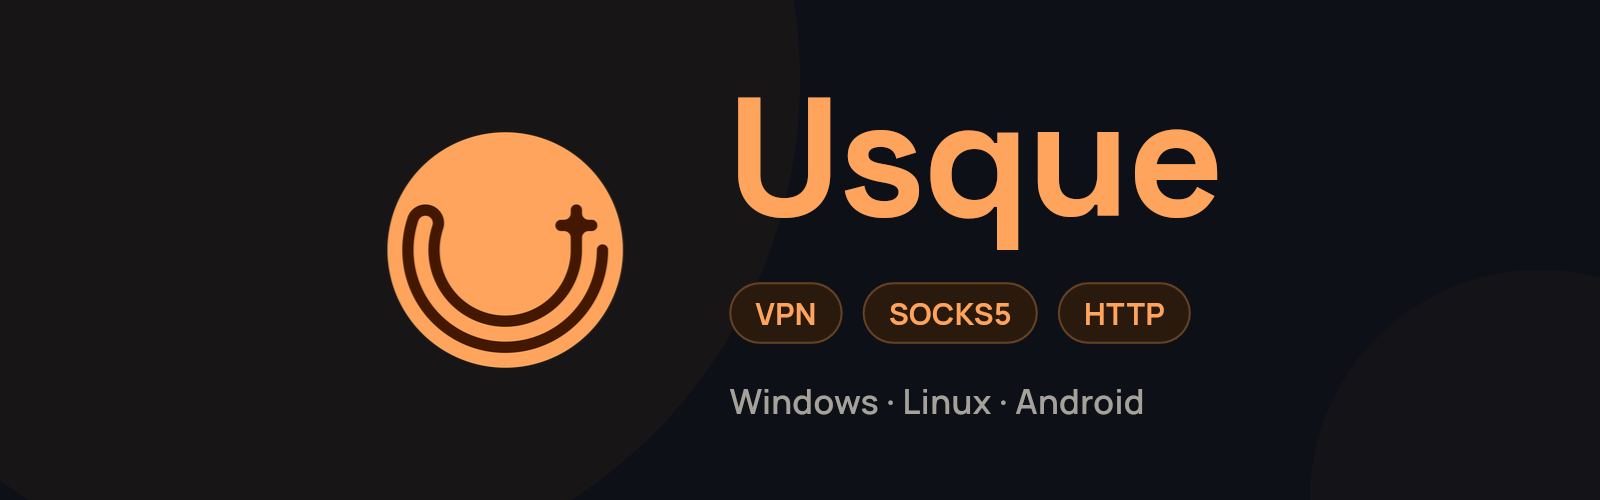
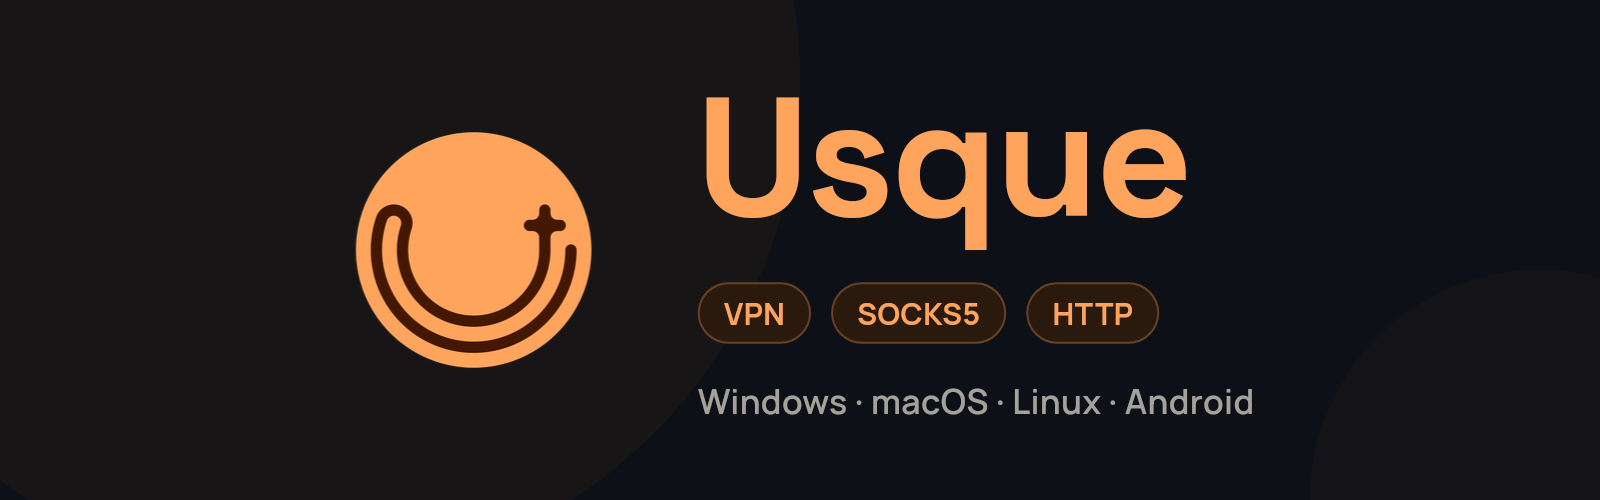
docs: announce macOS for v0.3.5 and refresh platform artwork

diff --git a/apps/usque_gui/test/readme_assets_test.dart b/apps/usque_gui/test/readme_assets_test.dart
@@ -38,6 +38,7 @@ import 'ui_workflow_test.dart' show workflowHost;
 
 final String? _root = Platform.environment['USQUE_README_ASSETS'];
 final String? _frames = Platform.environment['USQUE_README_FRAMES'];
+const _platforms = 'Windows · macOS · Linux · Android';
 
 const _capabilities = EngineCapabilities(
   vpn: true,
@@ -538,7 +539,7 @@ class _Banner extends StatelessWidget {
                   ),
                   const SizedBox(height: 16),
                   Text(
-                    'Windows · Linux · Android',
+                    _platforms,
                     style: TextStyle(
                       fontFamily: UsqueFonts.body,
                       fontWeight: FontWeight.w600,
@@ -650,7 +651,7 @@ class _SocialPreview extends StatelessWidget {
                   ),
                   const SizedBox(height: 20),
                   Text(
-                    'Windows · Linux · Android / Android TV',
+                    '$_platforms / Android TV',
                     style: body(21, FontWeight.w600, scheme.onSurfaceVariant),
                   ),
                   const SizedBox(height: 36),

diff --git a/tool/macos_release.py b/tool/macos_release.py
@@ -1,4 +1,4 @@
-"""Sign and verify the proxy preview for direct distribution on a disposable Mac."""
+"""Sign and verify the macOS app for direct distribution on a disposable Mac."""
 
 from __future__ import annotations
 
@@ -63,7 +63,7 @@ def create_image(
             verify_signature(path, fingerprint)
         (volume / "Applications").symlink_to("/Applications")
         (volume / "READ ME.txt").write_text(
-            "Usque macOS proxy preview. This package is project-signed and has no Apple "
+            "Usque for macOS. This package is project-signed and has no Apple "
             "notarization ticket. Verify the DMG fingerprint and GitHub build provenance "
             "using the release notes. System-wide TUN is disabled in this build.\n",
             encoding="utf-8",

diff --git a/README.ru.md b/README.ru.md
@@ -22,7 +22,7 @@
 </p>
 
 <p align="center">
-  Неофициальный клиент, совместимый с сервисами Cloudflare® WARP®, для Windows, Linux, Android / Android TV и macOS (предварительная версия),<br>
+  Неофициальный клиент, совместимый с сервисами Cloudflare® WARP®, для Windows, macOS, Linux и Android / Android TV,<br>
   с нативным интерфейсом Flutter и движком MASQUE на Rust.
 </p>
 
@@ -32,7 +32,7 @@
 
 <p align="center">
   <a href="https://github.com/GeorgeXie2333/usque-app/releases"><img alt="Всего загрузок" src="https://img.shields.io/github/downloads/GeorgeXie2333/usque-app/total?color=C2500C"></a>
-  <img alt="Платформы: Windows, Linux, Android, macOS (предварительная версия)" src="https://img.shields.io/badge/platforms-Windows%20%7C%20Linux%20%7C%20Android%20%7C%20macOS%20%28preview%29-555555">
+  <img alt="Платформы: Windows, macOS, Linux, Android" src="https://img.shields.io/badge/platforms-Windows%20%7C%20macOS%20%7C%20Linux%20%7C%20Android-555555">
   <a href="LICENSE.md"><img alt="Лицензия MIT" src="https://img.shields.io/badge/license-MIT-C2500C.svg"></a>
 </p>
 
@@ -142,9 +142,9 @@ flowchart LR
 | Платформа | Минимальная ОС | Пакеты |
 | --- | --- | --- |
 | Windows | Windows 10 2004, сборка 19041 | установщик EXE для x64-v2 или ARM64 |
+| macOS | macOS 13 и новее | В v0.3.5 выйдут отдельные образы DMG для Apple Silicon (arm64) и Intel (x86_64) |
 | Linux (начиная с v0.3.3) | Ubuntu 22.04+, Debian 12+, поддерживаемая Fedora; systemd | AppImage, deb или rpm для amd64 или arm64 |
 | Android / Android TV | Android 8.0, API 26 | APK arm64-v8a, x86_64 или armeabi-v7a либо универсальный APK |
-| macOS (предварительная версия) | macOS 13 и новее | [Тестовые образы DMG](docs/MACOS_DEVELOPMENT_PACKAGING.md) для Apple Silicon (arm64) и Intel (x86_64) |
 
 Windows x64 требует процессор с поддержкой **x86-64-v2**; для ARM64 Windows используйте нативный пакет ARM64. Если ABI Android неизвестен, возьмите универсальный APK большего размера со всеми тремя ABI. Каждый выпуск также содержит два Windows MSI только для обновления из приложения; для ручной установки Windows используйте EXE.
 
@@ -237,13 +237,15 @@ VPN, SOCKS5 и HTTP включены по умолчанию, системный
 ### Экспериментальные и неподдерживаемые возможности
 
 [Регистрация Zero Trust](docs/ZERO_TRUST_EXPERIMENTAL.md) экспериментальна. Для интернет-туннеля MASQUE используется
-удостоверение организации; полной совместимости с Cloudflare One™ Client нет. Для macOS доступны отдельные
-[сборки DMG для разработки](docs/MACOS_DEVELOPMENT_PACKAGING.md) для arm64 и x86_64; функции рабочего стола и прокси проходят проверку.
-В предварительной версии доступны локальные прокси HTTP и SOCKS5. Для проверки системного VPN нужна отдельная [тестовая сборка Agent/utun](docs/MACOS_TUN_AGENT.md). Автоматическая установка отключена.
+удостоверение организации; полной совместимости с Cloudflare One™ Client нет.
+iOS, распространение через магазины приложений и публичный CLI в этот выпуск не входят.
+
+### Поддержка macOS в v0.3.5
+
+Первая официальная версия для macOS выйдет вместе с v0.3.5. Она поддерживает локальные прокси HTTP и SOCKS5. Для проверки системного VPN нужна отдельная [тестовая сборка Agent/utun](docs/MACOS_TUN_AGENT.md). Автоматическая установка отключена.
 Реализованные и ещё не завершённые возможности перечислены в [таблице соответствия функций macOS](docs/MACOS_WINDOWS_PARITY.md).
 Текущий исходный код `dev` добавляет сценарии подключения macOS, подтверждение очистки перед выходом и защищённое временное подключение WARP для VPN Gate. Сохранённые параметры цепочки сохраняются; прямой загрузки каталога через физическую сеть нет. Существующие установщики для разработки выпущены до этих изменений; новые установщики ещё не опубликованы.
 В macOS удалены гостевая регистрация Proton и встроенный браузер проверки. Обычный вход в аккаунт сохранён, но вход с обязательной проверкой в браузере завершить нельзя.
-iOS, распространение через магазины приложений и публичный CLI в этот выпуск не входят.
 
 ## Сетевые параметры по умолчанию
 

diff --git a/README.fa.md b/README.fa.md
@@ -22,7 +22,7 @@
 </p>
 
 <p align="center">
-  کلاینت غیررسمی سازگار با خدمات Cloudflare® WARP® برای Windows، Linux، Android / Android TV و macOS (نسخهٔ پیشنمایش)،<br>
+  کلاینت غیررسمی سازگار با خدمات Cloudflare® WARP® برای Windows، macOS، Linux و Android / Android TV،<br>
   با رابط بومی Flutter و موتور MASQUE نوشتهشده با Rust.
 </p>
 
@@ -32,7 +32,7 @@
 
 <p align="center">
   <a href="https://github.com/GeorgeXie2333/usque-app/releases"><img alt="مجموع دانلودها" src="https://img.shields.io/github/downloads/GeorgeXie2333/usque-app/total?color=C2500C"></a>
-  <img alt="سکوها: Windows، Linux، Android، macOS (پیشنمایش)" src="https://img.shields.io/badge/platforms-Windows%20%7C%20Linux%20%7C%20Android%20%7C%20macOS%20%28preview%29-555555">
+  <img alt="سکوها: Windows، macOS، Linux، Android" src="https://img.shields.io/badge/platforms-Windows%20%7C%20macOS%20%7C%20Linux%20%7C%20Android-555555">
   <a href="LICENSE.md"><img alt="مجوز MIT" src="https://img.shields.io/badge/license-MIT-C2500C.svg"></a>
 </p>
 
@@ -142,9 +142,9 @@ flowchart LR
 | سکو | حداقل سیستم | بستهها |
 | --- | --- | --- |
 | Windows | Windows 10 2004، build 19041 | نصبکنندهٔ EXE برای x64-v2 یا ARM64 |
+| macOS | macOS 13 یا جدیدتر | در نسخهٔ v0.3.5 برای Apple Silicon (arm64) و Intel (x86_64) فایلهای DMG جداگانه منتشر میشوند |
 | Linux (از v0.3.3) | Ubuntu 22.04+، Debian 12+، Fedora پشتیبانیشده؛ systemd | AppImage، deb یا rpm برای amd64 یا arm64 |
 | Android / Android TV | Android 8.0، API 26 | APK برای arm64-v8a، x86_64 یا armeabi-v7a، یا APK یکپارچه |
-| macOS (نسخهٔ پیشنمایش) | macOS 13 یا جدیدتر | [تصاویر DMG ویژهٔ توسعه](docs/MACOS_DEVELOPMENT_PACKAGING.md) برای Apple Silicon (arm64) و Intel (x86_64) |
 
 Windows x64 به پردازندهای با پشتیبانی از **x86-64-v2** نیاز دارد؛ برای Windows ARM64 از بستهٔ بومی ARM64 استفاده کنید. اگر ABI دستگاه Android معلوم نیست، APK یکپارچهٔ بزرگتر را که هر سه ABI را دارد به کار ببرید. هر نسخه همچنین دو فایل Windows MSI ویژهٔ بهروزرسانی درونبرنامه دارد؛ برای نصب دستی Windows از EXE استفاده کنید.
 
@@ -237,13 +237,15 @@ VPN، SOCKS5 و HTTP بهطور پیشفرض روشناند و پروک
 ### قابلیتهای آزمایشی و خارج از پشتیبانی
 
 [ثبتنام Zero Trust](docs/ZERO_TRUST_EXPERIMENTAL.md) آزمایشی است. برای تونل اینترنت MASQUE از
-هویت سازمان استفاده میکند و سازگاری کامل با Cloudflare One™ Client را فراهم نمیکند. macOS دارای
-[نسخههای DMG ویژهٔ توسعه](docs/MACOS_DEVELOPMENT_PACKAGING.md) بهصورت جداگانه برای arm64 و x86_64 است و قابلیتهای دسکتاپ و پراکسی در حال بررسی هستند.
-در نسخهٔ پیشنمایش میتوانید از پراکسی محلی HTTP یا SOCKS5 استفاده کنید. آزمایش VPN سیستمی به [نسخهٔ آزمایشی Agent/utun](docs/MACOS_TUN_AGENT.md) نیاز دارد. نصب خودکار غیرفعال است.
+هویت سازمان استفاده میکند و سازگاری کامل با Cloudflare One™ Client را فراهم نمیکند.
+iOS، توزیع فروشگاهی و CLI عمومی بیرون از محدودهٔ این انتشار هستند.
+
+### پشتیبانی از macOS در v0.3.5
+
+نخستین نسخهٔ رسمی macOS همراه با v0.3.5 منتشر میشود و از پراکسیهای محلی HTTP و SOCKS5 پشتیبانی میکند. آزمایش VPN سیستمی به [نسخهٔ آزمایشی Agent/utun](docs/MACOS_TUN_AGENT.md) نیاز دارد. نصب خودکار غیرفعال است.
 برای مشاهدهٔ قابلیتهای پیادهسازیشده و موارد باقیمانده، به [جدول مقایسهٔ قابلیتهای macOS](docs/MACOS_WINDOWS_PARITY.md) مراجعه کنید.
 کد فعلی شاخهٔ `dev` سناریوهای اتصال macOS، تأیید تکمیل پاکسازی پیش از خروج و اتصال موقت محافظتشدهٔ WARP برای VPN Gate را اضافه میکند. تنظیمات ذخیرهشدهٔ زنجیره حفظ میشوند و فهرست مستقیماً از شبکهٔ فیزیکی دریافت نمیشود. بستههای توسعهٔ موجود پیش از این تغییرات ساخته شدهاند و بستهٔ جایگزین هنوز منتشر نشده است.
 در macOS، ثبتنام مهمان Proton و مرورگر داخلی تأیید حذف شدهاند. ورود عادی به حساب باقی است، اما ورود نیازمند تأیید مرورگری تکمیل نمیشود.
-iOS، توزیع فروشگاهی و CLI عمومی بیرون از محدودهٔ این انتشار هستند.
 
 ## تنظیمات پیشفرض شبکه
 

diff --git a/docs/IMPLEMENTATION.md b/docs/IMPLEMENTATION.md
@@ -1,7 +1,7 @@
 # Usque implementation progress
 
-This checklist covers the source for Windows, Linux, Android / Android TV and
-the macOS development preview. For published packages, consult the release
+This checklist covers the source for Windows, macOS, Linux and Android / Android TV.
+The macOS app is scheduled for v0.3.5. For published packages, consult the release
 notes for the installed version.
 
 - A checked implementation item means code or test infrastructure is in the
@@ -206,26 +206,7 @@ the official Proton human-verification page. Desktop UI and engine remain unpriv
   uninstall.
 - [ ] Isolated clean-install, upgrade, and uninstall validation.
 
-### Android and Android TV
-
-- [x] API 26 minimum, TV Leanback entry, and non-touchscreen compatibility.
-- [x] Dedicated `:vpn` process, `VpnService`, foreground notification, control Binder, and JNI boundary.
-- [x] Fail closed before creating the VPN if the Rust data channel is unavailable.
-- [x] Wire arm64-v8a, x86_64, and armeabi-v7a Rust targets into the Gradle release build and produce a universal APK.
-- [x] Transfer connection snapshots from `:vpn` to the UI over a bounded-time Binder request.
-- [x] Validate serialized WARP identity material in Rust for Android secure storage and startup. Retained parsers do not enable new Secret imports.
-- [x] Stream native events/counters from `:vpn` through Binder callbacks and Flutter `EventChannel`.
-- [x] Automatic Consumer registration through Rust before Android Keystore persistence.
-- [x] Export a saved Secret through Android SAF after explicit confirmation, without revealing it in the UI or diagnostics.
-- [x] Implement `VpnService.Builder` address/DNS setup, API 26–32 CIDR complements, API 33+ exclusions, a 256-route ceiling, retained TUN reconnects, `protect(fd)`, and underlying-network rebinding.
-- [x] Terminate GeoIP- or GeoSite-hint-selected Android TUN TCP/UDP flows in a bounded userspace gateway and relay them through protected sockets bound to the selected physical network.
-- [x] Snapshot Android `LinkProperties.dnsServers`, publish internal Split DNS routes, and fail VPN startup if a valid physical DNS path is unavailable.
-- [x] Add device-scoped Android per-app proxy (include-only `addAllowedApplication`) stored in app settings, not the Profile.
-- [x] Fail-closed Android reconnect: retain the TUN fd when Kill Switch is armed and the address/DNS/MTU/route identity is unchanged; establish a replacement TUN before closing the old one when that identity changes.
-- [x] Expose Android start-on-boot, Quick Settings tile request, and a deep link to system Always-on VPN settings.
-- [ ] Sleep, network-switch, and TV lifecycle tests.
-
-### macOS development preview
+### macOS desktop
 
 - [x] Current-user Unix Socket permissions, peer-UID validation, and protobuf engine IPC.
 - [x] Connect the Flutter macOS host to the Unix Socket client and sidecar lifecycle.
@@ -250,6 +231,25 @@ the official Proton human-verification page. Desktop UI and engine remain unpriv
 - [x] GNOME/KDE system proxy, StatusNotifierItem tray and current-user login entry.
 - [x] Ed25519 signed amd64/arm64 AppImage, deb and rpm packages with format-matched updates and removal.
 - [ ] Isolated install, upgrade, removal, TUN, leak and recovery validation on `usque-linux-snapshot-vm`.
+
+### Android and Android TV
+
+- [x] API 26 minimum, TV Leanback entry, and non-touchscreen compatibility.
+- [x] Dedicated `:vpn` process, `VpnService`, foreground notification, control Binder, and JNI boundary.
+- [x] Fail closed before creating the VPN if the Rust data channel is unavailable.
+- [x] Wire arm64-v8a, x86_64, and armeabi-v7a Rust targets into the Gradle release build and produce a universal APK.
+- [x] Transfer connection snapshots from `:vpn` to the UI over a bounded-time Binder request.
+- [x] Validate serialized WARP identity material in Rust for Android secure storage and startup. Retained parsers do not enable new Secret imports.
+- [x] Stream native events/counters from `:vpn` through Binder callbacks and Flutter `EventChannel`.
+- [x] Automatic Consumer registration through Rust before Android Keystore persistence.
+- [x] Export a saved Secret through Android SAF after explicit confirmation, without revealing it in the UI or diagnostics.
+- [x] Implement `VpnService.Builder` address/DNS setup, API 26–32 CIDR complements, API 33+ exclusions, a 256-route ceiling, retained TUN reconnects, `protect(fd)`, and underlying-network rebinding.
+- [x] Terminate GeoIP- or GeoSite-hint-selected Android TUN TCP/UDP flows in a bounded userspace gateway and relay them through protected sockets bound to the selected physical network.
+- [x] Snapshot Android `LinkProperties.dnsServers`, publish internal Split DNS routes, and fail VPN startup if a valid physical DNS path is unavailable.
+- [x] Add device-scoped Android per-app proxy (include-only `addAllowedApplication`) stored in app settings, not the Profile.
+- [x] Fail-closed Android reconnect: retain the TUN fd when Kill Switch is armed and the address/DNS/MTU/route identity is unchanged; establish a replacement TUN before closing the old one when that identity changes.
+- [x] Expose Android start-on-boot, Quick Settings tile request, and a deep link to system Always-on VPN settings.
+- [ ] Sleep, network-switch, and TV lifecycle tests.
 
 ## Milestone 4 — Flutter UX
 

diff --git a/README.ja.md b/README.ja.md
@@ -22,7 +22,7 @@
 </p>
 
 <p align="center">
-  Windows、Linux、Android / Android TV、macOS（開発プレビュー版）向けの Cloudflare® WARP® サービスと互換性のある非公式クライアントです。<br>
+  Windows、macOS、Linux、Android / Android TV向けの Cloudflare® WARP® サービスと互換性のある非公式クライアントです。<br>
   ネイティブの Flutter インターフェースと Rust 製の MASQUE エンジンで動作します。
 </p>
 
@@ -32,7 +32,7 @@
 
 <p align="center">
   <a href="https://github.com/GeorgeXie2333/usque-app/releases"><img alt="累計ダウンロード数" src="https://img.shields.io/github/downloads/GeorgeXie2333/usque-app/total?color=C2500C"></a>
-  <img alt="対応プラットフォーム：Windows、Linux、Android、macOS（プレビュー版）" src="https://img.shields.io/badge/platforms-Windows%20%7C%20Linux%20%7C%20Android%20%7C%20macOS%20%28preview%29-555555">
+  <img alt="対応プラットフォーム：Windows、macOS、Linux、Android" src="https://img.shields.io/badge/platforms-Windows%20%7C%20macOS%20%7C%20Linux%20%7C%20Android-555555">
   <a href="LICENSE.md"><img alt="MIT ライセンス" src="https://img.shields.io/badge/license-MIT-C2500C.svg"></a>
 </p>
 
@@ -142,9 +142,9 @@ flowchart LR
 | プラットフォーム | 最低 OS 要件 | パッケージ |
 | --- | --- | --- |
 | Windows | Windows 10 2004、ビルド 19041 | x64-v2 または ARM64 の EXE インストーラー |
+| macOS | macOS 13 以降 | v0.3.5 で Apple Silicon（arm64）用と Intel（x86_64）用の DMG を配布予定 |
 | Linux（v0.3.3 以降） | Ubuntu 22.04+、Debian 12+、サポート中の Fedora；systemd | amd64 または arm64 の AppImage、deb、rpm |
 | Android / Android TV | Android 8.0、API 26 | arm64-v8a、x86_64、armeabi-v7a の APK、またはユニバーサル APK |
-| macOS（開発プレビュー版） | macOS 13 以降 | Apple Silicon（arm64）用と Intel（x86_64）用の[開発版 DMG](docs/MACOS_DEVELOPMENT_PACKAGING.md) |
 
 Windows x64 には **x86-64-v2** 対応 CPU が必要で、ARM64 Windows にはネイティブ ARM64 パッケージを使用します。Android の ABI が不明な場合は、3 種類の ABI をすべて含む、サイズの大きいユニバーサル APK を使用できます。各リリースにはアプリ内更新専用の Windows MSI も 2 個含まれます。Windows を手動でインストールする場合は EXE を使用してください。
 
@@ -237,12 +237,14 @@ VPN、SOCKS5、HTTP は既定で有効、システムプロキシは無効です
 ### 実験的な機能と未対応の範囲
 
 [Zero Trust 登録](docs/ZERO_TRUST_EXPERIMENTAL.md)は実験的な機能です。組織の ID を使って MASQUE インターネットトンネルを構成しますが、Cloudflare One™ Client の全機能との互換性は提供しません。
-macOS には arm64 と x86_64 向けの個別の[開発用 DMG ビルド](docs/MACOS_DEVELOPMENT_PACKAGING.md)があり、デスクトップ機能とプロキシ機能を検証中です。
-プレビュー版ではローカル HTTP / SOCKS5 プロキシを利用できます。システム VPN の検証には専用の [Agent/utun テストビルド](docs/MACOS_TUN_AGENT.md)が必要です。自動インストールは無効です。
+iOS、アプリストアでの配布、公開 CLI は今回のリリース範囲に含まれません。
+
+### v0.3.5 の macOS 対応
+
+macOS 版は v0.3.5 で正式にリリース予定です。ローカル HTTP / SOCKS5 プロキシを利用できます。 システム VPN の検証には専用の [Agent/utun テストビルド](docs/MACOS_TUN_AGENT.md)が必要です。自動インストールは無効です。
 実装済みの機能と未完了の機能については、[macOS 機能対応表](docs/MACOS_WINDOWS_PARITY.md)を参照してください。
 現在の `dev` ソースでは macOS の接続シーン、終了前のクリーンアップ確認、VPN Gate 用の保護された一時 WARP 接続を追加しています。保存済みのチェーン設定は保持され、物理ネットワークからディレクトリを直接取得しません。既存の開発用インストーラーはこれらの変更前のもので、更新版はまだ公開していません。
 macOS では Proton のゲスト登録と内蔵認証ブラウザーを削除しました。通常のアカウントログインは利用できますが、ブラウザー認証が必要なログインは完了できません。
-iOS、アプリストアでの配布、公開 CLI は今回のリリース範囲に含まれません。
 
 ## 既定のネットワーク設定
 

diff --git a/docs/RELEASE.md b/docs/RELEASE.md
@@ -7,8 +7,8 @@ executable contracts are [release.yml](../.github/workflows/release.yml) and
 
 The checked-in application metadata and workflow target `v0.3.4` /
 `0.3.4+30`. Consult GitHub Releases for the currently published Latest.
-The dual-architecture macOS workflow on `dev` is for a subsequent release with
-a fresh version and tag. The published v0.3.4 has no macOS DMGs.
+v0.3.5 will be the first release with macOS DMGs for Apple Silicon and Intel.
+Its release preparation must align the version metadata and exact tag trigger.
 [v0.3.3](https://github.com/GeorgeXie2333/usque-app/releases/tag/v0.3.3) was
 published as the stable Latest on 2026-10-26 (UTC) from
 `1d44597ddb6dee7fca6700c0442e0d3856eea31b` with 34 public assets.
@@ -243,7 +243,7 @@ dependencies of publication.
 ### Batch the signing review
 
 For the next tag, wait until **all seven** signing
-jobs (Windows x64-v2/ARM64, Android, Linux amd64/arm64 and macOS arm64/x86_64) are awaiting review, then
+jobs (Windows x64-v2/ARM64, macOS arm64/x86_64, Linux amd64/arm64 and Android) are awaiting review, then
 approve `release-signing` together. Do not approve the first arriving job and
 then repeatedly approve later platforms. The release-gate summary supplies a
 candidate-bound command; it does not approve anything:
@@ -328,7 +328,7 @@ bypasses the fingerprint check.
    extraction, 64-bit ELF LOAD segments must support 16 KiB alignment, and ZIP
    alignment must pass. Wrong ABIs, duplicate entries, shipped symbols and native
    debug information are rejected before candidate upload. No APK is installed.
-3. The two native Mac jobs sign and verify the preview app and DMG with the pinned project certificate. Staging checks each DMG's GitHub provenance against the exact tag, workflow and commit, requires all sixteen packages and generates their SPDX SBOM attestations. See [macOS verification](CODE_SIGNING.md#configure-and-verify-macos-release-signing).
+3. The two native Mac jobs sign and verify the app and DMG with the pinned project certificate. Staging checks each DMG's GitHub provenance against the exact tag, workflow and commit, requires all sixteen packages and generates their SPDX SBOM attestations. See [macOS verification](CODE_SIGNING.md#configure-and-verify-macos-release-signing).
 4. The publish job rechecks the staged manifest, calculates final checksums and publishes fourteen user-facing installers, two update-only MSIs, the manifest, checksums, sixteen SPDX SBOMs and four Linux signature metadata files.
    Separately retain the three matching Flutter symbol artifacts for the
    supported lifetime of this release, following [Flutter release symbols](FLUTTER_SYMBOLS.md).
@@ -399,20 +399,20 @@ next reviewed version (official only after approved publication):
 - `usque-vX.Y.Z-windows-arm64.exe`
 - `usque-vX.Y.Z-windows-x64-v2.msi`
 - `usque-vX.Y.Z-windows-arm64.msi`
-- `usque-vX.Y.Z-android-arm64-v8a.apk`
-- `usque-vX.Y.Z-android-x86_64.apk`
-- `usque-vX.Y.Z-android-armeabi-v7a.apk`
-- `usque-vX.Y.Z-android-universal.apk`
+- `usque-vX.Y.Z-macos-arm64.dmg`
+- `usque-vX.Y.Z-macos-x86_64.dmg`
 - `usque-vX.Y.Z-linux-amd64.AppImage`
 - `usque-vX.Y.Z-linux-amd64.deb`
 - `usque-vX.Y.Z-linux-amd64.rpm`
 - `usque-vX.Y.Z-linux-arm64.AppImage`
 - `usque-vX.Y.Z-linux-arm64.deb`
 - `usque-vX.Y.Z-linux-arm64.rpm`
-- `usque-vX.Y.Z-macos-arm64.dmg`
-- `usque-vX.Y.Z-macos-x86_64.dmg`
+- `usque-vX.Y.Z-android-arm64-v8a.apk`
+- `usque-vX.Y.Z-android-x86_64.apk`
+- `usque-vX.Y.Z-android-armeabi-v7a.apk`
+- `usque-vX.Y.Z-android-universal.apk`
 
-The two EXEs, four APKs, six Linux files and two Mac DMGs are user-facing packages; the two MSIs are
+The two EXEs, two Mac DMGs, six Linux files and four APKs are user-facing packages; the two MSIs are
 update payloads consumed by the signed Windows updater. In addition to these
 sixteen primary artifacts, the public release includes `release-manifest.json`,
 `SHA256SUMS`, each artifact's SPDX SBOM, and two Linux manifests with detached

diff --git a/README.md b/README.md
@@ -22,7 +22,7 @@
 </p>
 
 <p align="center">
-  An unofficial client compatible with Cloudflare® WARP® services for Windows, Linux, Android / Android TV and macOS (development preview),<br>
+  An unofficial client compatible with Cloudflare® WARP® services for Windows, macOS, Linux and Android / Android TV,<br>
   with a native Flutter interface and a Rust MASQUE engine.
 </p>
 
@@ -32,7 +32,7 @@
 
 <p align="center">
   <a href="https://github.com/GeorgeXie2333/usque-app/releases"><img alt="Total downloads" src="https://img.shields.io/github/downloads/GeorgeXie2333/usque-app/total?color=C2500C"></a>
-  <img alt="Platforms: Windows, Linux, Android, macOS (preview)" src="https://img.shields.io/badge/platforms-Windows%20%7C%20Linux%20%7C%20Android%20%7C%20macOS%20%28preview%29-555555">
+  <img alt="Platforms: Windows, macOS, Linux, Android" src="https://img.shields.io/badge/platforms-Windows%20%7C%20macOS%20%7C%20Linux%20%7C%20Android-555555">
   <a href="LICENSE.md"><img alt="MIT License" src="https://img.shields.io/badge/license-MIT-C2500C.svg"></a>
 </p>
 
@@ -142,9 +142,9 @@ Version **v0.3.4** adds local connection scenes and improves setup, routing and 
 | Platform | Minimum system | Package |
 | --- | --- | --- |
 | Windows | Windows 10 2004, build 19041 | x64-v2 or ARM64 installer EXE |
+| macOS | macOS 13 or later | DMGs for Apple Silicon (arm64) and Intel (x86_64), planned for v0.3.5 |
 | Linux (since v0.3.3) | Ubuntu 22.04+, Debian 12+, supported Fedora; systemd | amd64 or arm64 AppImage, deb or rpm |
 | Android / Android TV | Android 8.0, API 26 | arm64-v8a, x86_64 or armeabi-v7a APK, or the universal APK |
-| macOS (development preview) | macOS 13 or later | [Development DMGs](docs/MACOS_DEVELOPMENT_PACKAGING.md) for Apple Silicon (arm64) and Intel (x86_64) |
 
 Windows x64 requires a CPU supporting **x86-64-v2**; ARM64 Windows uses the native ARM64 package. When the Android ABI is unknown, use the larger universal APK, which contains all three ABIs. Each release also includes two Windows MSI files reserved for in-app updates; install Windows manually with the EXE.
 
@@ -238,15 +238,15 @@ VPN, SOCKS5 and HTTP are enabled by default; system proxy is off. They share one
 
 [Zero Trust enrollment](docs/ZERO_TRUST_EXPERIMENTAL.md) is experimental. It uses
 an organization identity for the MASQUE Internet tunnel and does not provide full
-Cloudflare One™ Client compatibility. macOS has separate arm64 and x86_64
-[development DMG builds](docs/MACOS_DEVELOPMENT_PACKAGING.md), with desktop and
-proxy features under validation. Use local HTTP or SOCKS5 proxies in the
-preview. System VPN requires the opt-in [Agent/utun test build](docs/MACOS_TUN_AGENT.md).
-Automatic installation is disabled. See the
-[macOS parity matrix](docs/MACOS_WINDOWS_PARITY.md) for implemented and pending
-features. iOS, store distribution and a public CLI are outside this release's scope.
+Cloudflare One™ Client compatibility. iOS, store distribution and a public CLI
+are outside this release's scope.
 
-### macOS development testing and known issues
+### macOS in v0.3.5
+
+The first macOS release will ship with v0.3.5. It supports local HTTP and SOCKS5
+proxies on macOS 13 and later. System-wide TUN requires the separate
+[Agent/utun test build](docs/MACOS_TUN_AGENT.md). See the
+[macOS feature matrix](docs/MACOS_WINDOWS_PARITY.md) for coverage and limitations.
 
 Historical **unofficial v0.3.3 dev pre-release** for macOS 13+:
 [Apple Silicon (arm64)](https://github.com/JustinL330/usque-app/releases/download/macos-dev-v0.3.3-compact-12636756/usque-v0.3.3-macos-arm64.dmg)
